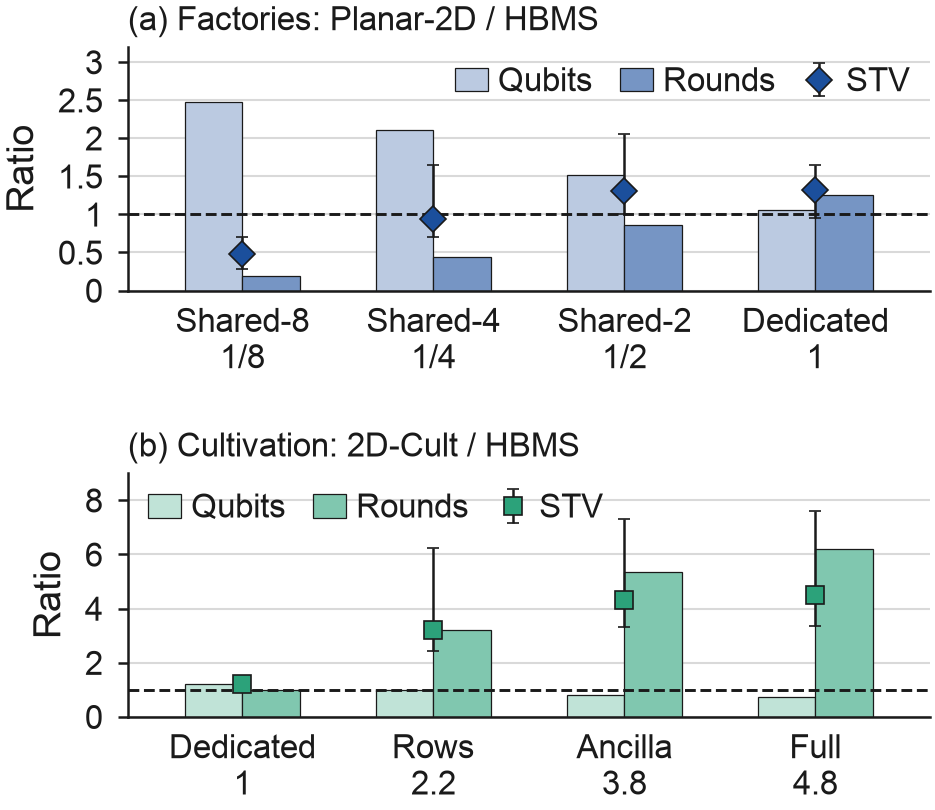
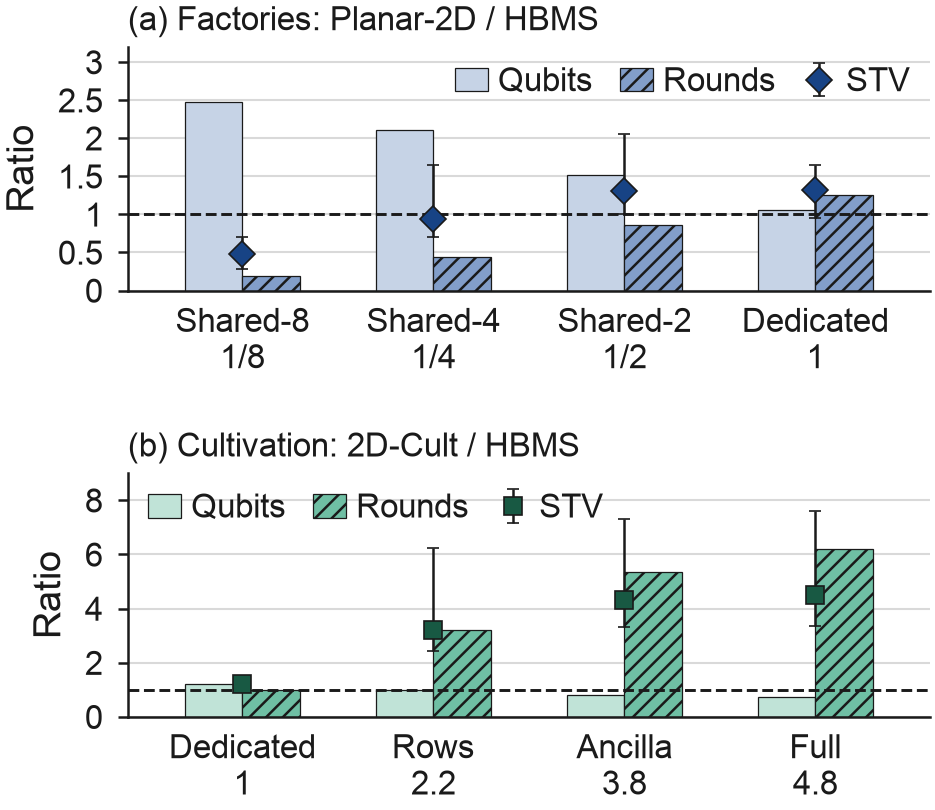
plot_eval.py: grayscale- and CVD-safe bars (hatch per configuration, lightness ramp with >= 15 L* per step, dark STV markers)

diff --git a/scripts/revision/plot_eval.py b/scripts/revision/plot_eval.py
@@ -61,11 +61,24 @@ def per_slot(cells, benches, spec, base):
     return f"{np.mean(v):.1f}".rstrip("0").rstrip(".")
 
 
+RAMP = {"HBM": (-0.15, 0.75), "HBM-Cult": (-0.45, 0.7)}  # dark to light, >= 15 L* per step
+HATCHES = (None, "//////", "\\\\\\\\\\\\", "xxxx")  # the same order in both panels, for grayscale prints
+
+
+def ramp(fam, k, n):
+    """k-th of n bar fills for an HBMS family, from a darkened hue (k = 0) to a light tint."""
+    hex_color = FILL[fam]
+    dark, light = RAMP[fam]
+    rgb = np.array([int(hex_color[i:i + 2], 16) for i in (1, 3, 5)]) / 255
+    t = dark + (light - dark) * k / max(1, n - 1)
+    return tuple(rgb * (1 + t)) if t < 0 else tuple(rgb + (1 - rgb) * t)
+
+
 def eval_stv(cells, benches, path):
     names = [label(b, cells[b]) for b in benches] + ["GMean"]
-    panels = [(FACT, [s for s, _ in FACT[1]], FILL["HBM"], None, (3, 0.5),
+    panels = [(FACT, [s for s, _ in FACT[1]], "HBM", None, (3, 0.5),
                "(a) Factories: Planar-2D / HBMS", 4),
-              (CULT, [s for s, _ in CULT[1]], FILL["HBM-Cult"], None, (10, 2),
+              (CULT, [s for s, _ in CULT[1]], "HBM-Cult", None, (10, 2),
                "(b) Cultivation: 2D-Cult / HBMS", 4)]
     fig, axes = plt.subplots(2, 1, figsize=(COL, 2.9), sharex=True,
                              gridspec_kw=dict(hspace=0.55))
@@ -77,8 +90,10 @@ def eval_stv(cells, benches, path):
         for k, spec in enumerate(show):
             r = ratios(cells, benches, base, spec)
             vals = np.append(r, gmean(r))
-            ax.bar(x - 0.4 + w * (k + 0.5), vals, width=w, color=shade(color, k, n),
-                   edgecolor=INK, linewidth=0.3, hatch=hatch, label=lab[spec])
+            fill = ramp(color, k, n)
+            ax.bar(x - 0.4 + w * (k + 0.5), vals, width=w, color=fill, edgecolor=INK,
+                   linewidth=0.3, hatch=HATCHES[k], label=lab[spec],
+                   hatchcolor="white" if k == 1 else INK)
         ax.axhline(1, color=INK, lw=0.7, ls="--", zorder=3)
         ax.axvline(len(benches) - 0.5, color=MUTED, lw=0.5)
         ax.set_ylim(0, top)
@@ -111,18 +126,19 @@ def eval_split(cells, benches, path):
     for ax, ((base, specs), color, marker, (top, step), tag) in zip(
             axes, [(FACT, FILL["HBM"], "D", (3.2, 0.5), "(a) Factories: Planar-2D / HBMS"),
                    (CULT, FILL["HBM-Cult"], "s", (9, 2), "(b) Cultivation: 2D-Cult / HBMS")]):
-        bars = [("Q", "Qubits", _mix(color, 0.3)), ("rounds", "Rounds", _mix(color, 0.6))]
+        fam = "HBM" if base == "D0-alt" else "HBM-Cult"
+        bars = [("Q", "Qubits", ramp(fam, 3, 4), None), ("rounds", "Rounds", ramp(fam, 2, 4), "//////")]
         order = specs[::-1] if base == "D0-alt" else specs  # fewest resources first
         x = np.arange(len(order))
         w = 0.3
-        for k, (key, mlab, fill) in enumerate(bars):
+        for k, (key, mlab, fill, hatch) in enumerate(bars):
             vals = [gmean(ratios(cells, benches, base, spec, key)) for spec, _ in order]
             ax.bar(x + (k - 0.5) * w, vals, width=w, color=fill, edgecolor=INK,
-                   linewidth=0.3, label=mlab)
+                   linewidth=0.3, label=mlab, hatch=hatch, hatchcolor=INK)
         r = [ratios(cells, benches, base, spec) for spec, _ in order]
         g = np.array([gmean(v) for v in r])
         lo, hi = g - np.array([np.nanmin(v) for v in r]), np.array([np.nanmax(v) for v in r]) - g
-        ax.errorbar(x, g, yerr=[lo, hi], fmt=marker, color=color, mec=INK, mew=0.4, ms=4.5,
+        ax.errorbar(x, g, yerr=[lo, hi], fmt=marker, color=ramp(fam, 0, 4), mec=INK, mew=0.4, ms=4.5,
                     ecolor=INK, elinewidth=0.6, capsize=1.5, zorder=4,
                     label="STV")
         ax.axhline(1, color=INK, lw=0.7, ls="--", zorder=3)
@@ -142,7 +158,7 @@ def eval_split(cells, benches, path):
     for p in ([path] if isinstance(path, str) else path):
         fig.savefig(p)
     plt.close(fig)
-    return ("Physical qubits and rounds (light and dark bars) and STV (markers) of the planar baseline "
+    return ("Physical qubits (plain bars) and rounds (hatched bars) and STV (markers) of the planar baseline "
             "divided by those of HBMS, as geometric means over the circuits, per HBMS "
             "configuration ordered by its number of magic-state resources per data slot "
             "(below each name): (a) Planar-2D over HBMS Shared-8 to Dedicated, with "
